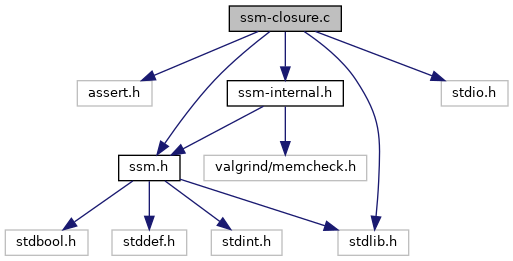
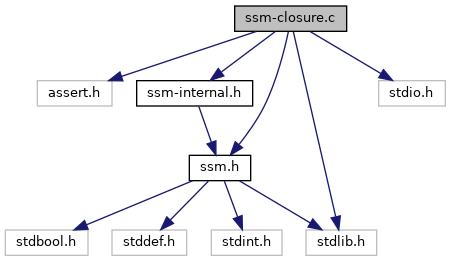
deploy: 63e72c5ca318d84e23f0a3bbaa121b332d3af9d6

Changed region(s): [[0.0, 0.0, 0.9933, 0.9808], [0.8071, 0.8582, 0.8381, 0.8889], [0.3725, 0.5211, 0.4035, 0.5517]]

diff --git a/ssm-mem_8c_source.html b/ssm-mem_8c_source.html
@@ -197,7 +197,7 @@ $(document).ready(function(){initNavTree('ssm-mem_8c_source.html',''); initResiz
 <div class="line"><a name="l00103"></a><span class="lineno">  103</span>&#160;  new_page[last_block].<a class="code" href="unionblock.html#ab75a6cd071ce51962a966b713463dd34">free_list_next</a> = pool-&gt;<a class="code" href="structmem__pool.html#a4a5b5fb16323ee065301f15bb85d0af8">free_list_head</a>;</div>
 <div class="line"><a name="l00104"></a><span class="lineno">  104</span>&#160;  pool-&gt;<a class="code" href="structmem__pool.html#a4a5b5fb16323ee065301f15bb85d0af8">free_list_head</a> = new_page;</div>
 <div class="line"><a name="l00105"></a><span class="lineno">  105</span>&#160; </div>
-<div class="line"><a name="l00106"></a><span class="lineno">  106</span>&#160;<span class="preprocessor">#ifndef NVALGRIND</span></div>
+<div class="line"><a name="l00106"></a><span class="lineno">  106</span>&#160;<span class="preprocessor">#ifdef USE_VALGRIND</span></div>
 <div class="line"><a name="l00107"></a><span class="lineno">  107</span>&#160;  <span class="comment">// Mark as NOACCESS; nothing should touch this memory until it is allocated.</span></div>
 <div class="line"><a name="l00108"></a><span class="lineno">  108</span>&#160;  VALGRIND_MAKE_MEM_NOACCESS(new_page, <a class="code" href="group__mem.html#gab5a6226f024f81622a5ce90dcd9b7388">SSM_MEM_PAGE_SIZE</a>);</div>
 <div class="line"><a name="l00109"></a><span class="lineno">  109</span>&#160; </div>
@@ -217,7 +217,7 @@ $(document).ready(function(){initNavTree('ssm-mem_8c_source.html',''); initResiz
 <div class="line"><a name="l00123"></a><span class="lineno">  123</span>&#160;    <a class="code" href="ssm-mem_8c.html#a02b28cd24b5aa39cb5824b984cd82987">mem_pools</a>[p].<a class="code" href="structmem__pool.html#a4a5b5fb16323ee065301f15bb85d0af8">free_list_head</a> = <a class="code" href="ssm-mem_8c.html#ad8d38e174ca767601ec126ef90cf89ab">END_OF_FREELIST</a>;</div>
 <div class="line"><a name="l00124"></a><span class="lineno">  124</span>&#160;  }</div>
 <div class="line"><a name="l00125"></a><span class="lineno">  125</span>&#160; </div>
-<div class="line"><a name="l00126"></a><span class="lineno">  126</span>&#160;<span class="preprocessor">#ifndef NVALGRIND</span></div>
+<div class="line"><a name="l00126"></a><span class="lineno">  126</span>&#160;<span class="preprocessor">#ifdef USE_VALGRIND</span></div>
 <div class="line"><a name="l00127"></a><span class="lineno">  127</span>&#160;  <span class="comment">// Ask Valgrind to checkpoint the amount of memory allocated so far.</span></div>
 <div class="line"><a name="l00128"></a><span class="lineno">  128</span>&#160;  VALGRIND_PRINTF(<span class="stringliteral">&quot;Performing leak check at memory initialization.\n&quot;</span>);</div>
 <div class="line"><a name="l00129"></a><span class="lineno">  129</span>&#160;  VALGRIND_PRINTF(<span class="stringliteral">&quot;(Checkpoints how much memory is allocated at init time.)\n&quot;</span>);</div>
@@ -233,7 +233,7 @@ $(document).ready(function(){initNavTree('ssm-mem_8c_source.html',''); initResiz
 <div class="line"><a name="l00139"></a><span class="lineno">  139</span>&#160;  <span class="comment">//   }</span></div>
 <div class="line"><a name="l00140"></a><span class="lineno">  140</span>&#160;  <span class="comment">// }</span></div>
 <div class="line"><a name="l00141"></a><span class="lineno">  141</span>&#160; </div>
-<div class="line"><a name="l00142"></a><span class="lineno">  142</span>&#160;<span class="preprocessor">#ifndef NVALGRIND</span></div>
+<div class="line"><a name="l00142"></a><span class="lineno">  142</span>&#160;<span class="preprocessor">#ifdef USE_VALGRIND</span></div>
 <div class="line"><a name="l00143"></a><span class="lineno">  143</span>&#160;  <span class="comment">// Report how much memory has been leaked since the checkpoint in</span></div>
 <div class="line"><a name="l00144"></a><span class="lineno">  144</span>&#160;  <span class="comment">// ssm_mem_init().</span></div>
 <div class="line"><a name="l00145"></a><span class="lineno">  145</span>&#160;  VALGRIND_PRINTF(<span class="stringliteral">&quot;About to destroy SSM allocator. Performing leak check.\n&quot;</span>);</div>
@@ -263,7 +263,7 @@ $(document).ready(function(){initNavTree('ssm-mem_8c_source.html',''); initResiz
 <div class="line"><a name="l00169"></a><span class="lineno">  169</span>&#160; </div>
 <div class="line"><a name="l00170"></a><span class="lineno">  170</span>&#160;  <span class="keywordtype">void</span> *m = pool-&gt;<a class="code" href="structmem__pool.html#a4a5b5fb16323ee065301f15bb85d0af8">free_list_head</a>-&gt;<a class="code" href="unionblock.html#af0d0a1eff43bd954f486b277f5ed1853">block_buf</a>;</div>
 <div class="line"><a name="l00171"></a><span class="lineno">  171</span>&#160; </div>
-<div class="line"><a name="l00172"></a><span class="lineno">  172</span>&#160;<span class="preprocessor">#ifndef NVALGRIND</span></div>
+<div class="line"><a name="l00172"></a><span class="lineno">  172</span>&#160;<span class="preprocessor">#ifdef USE_VALGRIND</span></div>
 <div class="line"><a name="l00173"></a><span class="lineno">  173</span>&#160;  <span class="comment">// Tell Valgrind that we have allocated m as a chunk of pool.</span></div>
 <div class="line"><a name="l00174"></a><span class="lineno">  174</span>&#160;  <span class="comment">//</span></div>
 <div class="line"><a name="l00175"></a><span class="lineno">  175</span>&#160;  <span class="comment">// The memory range [m..m+size] is now considered DEFINED.</span></div>
@@ -273,7 +273,7 @@ $(document).ready(function(){initNavTree('ssm-mem_8c_source.html',''); initResiz
 <div class="line"><a name="l00179"></a><span class="lineno">  179</span>&#160;  pool-&gt;<a class="code" href="structmem__pool.html#a4a5b5fb16323ee065301f15bb85d0af8">free_list_head</a> =</div>
 <div class="line"><a name="l00180"></a><span class="lineno">  180</span>&#160;      <a class="code" href="ssm-mem_8c.html#a8db65afdce406f6c3acd576a38f5451d">find_next_block</a>(pool-&gt;<a class="code" href="structmem__pool.html#a4a5b5fb16323ee065301f15bb85d0af8">free_list_head</a>, <a class="code" href="group__mem.html#ga9fe24b7e82f37df88331c2acef65ed2c">SSM_MEM_POOL_SIZE</a>(p));</div>
 <div class="line"><a name="l00181"></a><span class="lineno">  181</span>&#160; </div>
-<div class="line"><a name="l00182"></a><span class="lineno">  182</span>&#160;<span class="preprocessor">#ifndef NVALGRIND</span></div>
+<div class="line"><a name="l00182"></a><span class="lineno">  182</span>&#160;<span class="preprocessor">#ifdef USE_VALGRIND</span></div>
 <div class="line"><a name="l00183"></a><span class="lineno">  183</span>&#160;  <span class="comment">// Make the memory range [m..m+size] undefined, because the caller should</span></div>
 <div class="line"><a name="l00184"></a><span class="lineno">  184</span>&#160;  <span class="comment">// not rely on allocated chunks being defined.</span></div>
 <div class="line"><a name="l00185"></a><span class="lineno">  185</span>&#160;  VALGRIND_MAKE_MEM_UNDEFINED(m, size);</div>
@@ -295,7 +295,7 @@ $(document).ready(function(){initNavTree('ssm-mem_8c_source.html',''); initResiz
 <div class="line"><a name="l00201"></a><span class="lineno">  201</span>&#160;  new_head-&gt;<a class="code" href="unionblock.html#ab75a6cd071ce51962a966b713463dd34">free_list_next</a> = pool-&gt;<a class="code" href="structmem__pool.html#a4a5b5fb16323ee065301f15bb85d0af8">free_list_head</a>;</div>
 <div class="line"><a name="l00202"></a><span class="lineno">  202</span>&#160;  pool-&gt;<a class="code" href="structmem__pool.html#a4a5b5fb16323ee065301f15bb85d0af8">free_list_head</a> = new_head;</div>
 <div class="line"><a name="l00203"></a><span class="lineno">  203</span>&#160; </div>
-<div class="line"><a name="l00204"></a><span class="lineno">  204</span>&#160;<span class="preprocessor">#ifndef NVALGRIND</span></div>
+<div class="line"><a name="l00204"></a><span class="lineno">  204</span>&#160;<span class="preprocessor">#ifdef USE_VALGRIND</span></div>
 <div class="line"><a name="l00205"></a><span class="lineno">  205</span>&#160;  <span class="comment">// Tell Valgrind that we have freed m.</span></div>
 <div class="line"><a name="l00206"></a><span class="lineno">  206</span>&#160;  VALGRIND_FREELIKE_BLOCK(m, 0);</div>
 <div class="line"><a name="l00207"></a><span class="lineno">  207</span>&#160;<span class="preprocessor">#endif</span></div>

diff --git a/ssm-internal_8h_source.html b/ssm-internal_8h_source.html
@@ -253,8 +253,8 @@ $(document).ready(function(){initNavTree('ssm-internal_8h_source.html',''); init
 <div class="line"><a name="l00159"></a><span class="lineno">  159</span>&#160;<span class="comment"> *  alloc_mem_handler. These handlers may also assume they will not be invoked</span></div>
 <div class="line"><a name="l00160"></a><span class="lineno">  160</span>&#160;<span class="comment"> *  to request memory ranges of less than #SSM_MEM_POOL_MAX bytes.</span></div>
 <div class="line"><a name="l00161"></a><span class="lineno">  161</span>&#160;<span class="comment"> *</span></div>
-<div class="line"><a name="l00162"></a><span class="lineno">  162</span>&#160;<span class="comment"> *  If the allocator is compiled with valgrind support (i.e., without defining</span></div>
-<div class="line"><a name="l00163"></a><span class="lineno">  163</span>&#160;<span class="comment"> *  @a NVALGRIND), it will perform a leak-check summary, to checkpoint how much</span></div>
+<div class="line"><a name="l00162"></a><span class="lineno">  162</span>&#160;<span class="comment"> *  If the allocator is compiled with valgrind support (i.e., @a USE_VALGRIND is</span></div>
+<div class="line"><a name="l00163"></a><span class="lineno">  163</span>&#160;<span class="comment"> *  defined), it will perform a leak-check summary, to checkpoint how much</span></div>
 <div class="line"><a name="l00164"></a><span class="lineno">  164</span>&#160;<span class="comment"> *  memory has already been allocated.</span></div>
 <div class="line"><a name="l00165"></a><span class="lineno">  165</span>&#160;<span class="comment"> *</span></div>
 <div class="line"><a name="l00166"></a><span class="lineno">  166</span>&#160;<span class="comment"> *  @platformonly</span></div>
@@ -269,8 +269,8 @@ $(document).ready(function(){initNavTree('ssm-internal_8h_source.html',''); init
 <div class="line"><a name="l00175"></a><span class="lineno">  175</span>&#160;<span class="comment"></span> </div>
 <div class="line"><a name="l00176"></a><span class="lineno">  176</span>&#160;<span class="comment">/** @brief Tears down the underlying allocator system.</span></div>
 <div class="line"><a name="l00177"></a><span class="lineno">  177</span>&#160;<span class="comment"> *</span></div>
-<div class="line"><a name="l00178"></a><span class="lineno">  178</span>&#160;<span class="comment"> *  If the allocator is compiled with valgrind support (i.e., without defining</span></div>
-<div class="line"><a name="l00179"></a><span class="lineno">  179</span>&#160;<span class="comment"> *  @a NVALGRIND), it will perform a full leak-check summary, to report how much</span></div>
+<div class="line"><a name="l00178"></a><span class="lineno">  178</span>&#160;<span class="comment"> *  If the allocator is compiled with valgrind support (i.e., @a USE_VALGRIND is</span></div>
+<div class="line"><a name="l00179"></a><span class="lineno">  179</span>&#160;<span class="comment"> *  defined), it will perform a full leak-check summary, to report how much</span></div>
 <div class="line"><a name="l00180"></a><span class="lineno">  180</span>&#160;<span class="comment"> *  memory has been leaked since ssm_mem_init().</span></div>
 <div class="line"><a name="l00181"></a><span class="lineno">  181</span>&#160;<span class="comment"> *</span></div>
 <div class="line"><a name="l00182"></a><span class="lineno">  182</span>&#160;<span class="comment"> *  @TODO this doesn&#39;t actually call @a free_page_handler yet. It still needs to</span></div>
@@ -351,7 +351,7 @@ $(document).ready(function(){initNavTree('ssm-internal_8h_source.html',''); init
 <div class="line"><a name="l00257"></a><span class="lineno">  257</span>&#160;<span class="comment"></span> </div>
 <div class="line"><a name="l00258"></a><span class="lineno">  258</span>&#160;<span class="comment">/** @} */</span></div>
 <div class="line"><a name="l00259"></a><span class="lineno">  259</span>&#160; </div>
-<div class="line"><a name="l00260"></a><span class="lineno">  260</span>&#160;<span class="preprocessor">#ifndef NVALGRIND</span></div>
+<div class="line"><a name="l00260"></a><span class="lineno">  260</span>&#160;<span class="preprocessor">#ifdef USE_VALGRIND</span></div>
 <div class="line"><a name="l00261"></a><span class="lineno">  261</span>&#160;<span class="preprocessor">#include &lt;valgrind/memcheck.h&gt;</span></div>
 <div class="line"><a name="l00262"></a><span class="lineno">  262</span>&#160;<span class="preprocessor">#endif</span></div>
 <div class="line"><a name="l00263"></a><span class="lineno">  263</span>&#160; </div>

diff --git a/group__mem.html b/group__mem.html
@@ -672,7 +672,7 @@ Functions</h2></td></tr>
 <p>Initializes the underlying allocator system. </p>
 <p>Memory pages are requested from the platform/OS on-demand via the provided <em>alloc_page_handler</em>. This handler must return a pointer to the beginning of a range of memory of size <a class="el" href="group__mem.html#gab5a6226f024f81622a5ce90dcd9b7388" title="The size of a memory page; must be greater than SSM_MEM_POOL_MAX.">SSM_MEM_PAGE_SIZE</a>, and the page <em>must</em> be zeroed out. These pages are assumed to never be freed.</p>
 <p>To support arbitrarily large allocations, SSM's allocator uses <em>alloc_mem_handler</em> to allocate memory, and <em>free_mem_handler</em> to release it. There are no requirements on the contents of memory allocated with <em>alloc_mem_handler</em>. These handlers may also assume they will not be invoked to request memory ranges of less than <a class="el" href="group__mem.html#gafd44b83b7d4fb58e0fccd2380a540a52" title="The size of the largest memory pool.">SSM_MEM_POOL_MAX</a> bytes.</p>
-<p>If the allocator is compiled with valgrind support (i.e., without defining <em>NVALGRIND</em>), it will perform a leak-check summary, to checkpoint how much memory has already been allocated.</p>
+<p>If the allocator is compiled with valgrind support (i.e., <em>USE_VALGRIND</em> is defined), it will perform a leak-check summary, to checkpoint how much memory has already been allocated.</p>
 <dl class="section note"><dt>Note</dt><dd>Intended for platform code; should not be used in user code.</dd></dl>
 <dl class="params"><dt>Parameters</dt><dd>
   <table class="params">
@@ -704,7 +704,7 @@ Functions</h2></td></tr>
 </div><div class="memdoc">
 
 <p>Tears down the underlying allocator system. </p>
-<p>If the allocator is compiled with valgrind support (i.e., without defining <em>NVALGRIND</em>), it will perform a full leak-check summary, to report how much memory has been leaked since <a class="el" href="group__mem.html#gafe56b79f41cfe1522669c35cbc423231" title="Initializes the underlying allocator system.">ssm_mem_init()</a>.</p>
+<p>If the allocator is compiled with valgrind support (i.e., <em>USE_VALGRIND</em> is defined), it will perform a full leak-check summary, to report how much memory has been leaked since <a class="el" href="group__mem.html#gafe56b79f41cfe1522669c35cbc423231" title="Initializes the underlying allocator system.">ssm_mem_init()</a>.</p>
 <dl class="todo"><dt><b><a class="el" href="todo.html#_todo000002">Todo:</a></b></dt><dd>this doesn't actually call <em>free_page_handler</em> yet. It still needs to be implemented, perhaps with the help of a superblock header to keep track of all pages allocated for each mempool</dd></dl>
 <dl class="section note"><dt>Note</dt><dd>Intended for platform code; should not be used in user code.</dd></dl>
 <dl class="params"><dt>Parameters</dt><dd>

diff --git a/ssm-closure_8c.html b/ssm-closure_8c.html
@@ -109,13 +109,12 @@ $(document).ready(function(){initNavTree('ssm-closure_8c.html',''); initResizabl
 <div id="dynsection-0-content" class="dyncontent" style="display:none;">
 <div class="center"><img src="ssm-closure_8c__incl.png" border="0" usemap="#ssm-closure_8c" alt=""/></div>
 <map name="ssm-closure_8c" id="ssm-closure_8c">
-<area shape="rect" title="SSM closure management and allocation." alt="" coords="229,5,341,32"/>
-<area shape="rect" title=" " alt="" coords="77,80,152,107"/>
-<area shape="rect" href="ssm-internal_8h.html" title="The internal interface of the SSM runtime." alt="" coords="227,80,343,107"/>
-<area shape="rect" href="ssm_8h.html" title="Interface to the SSM runtime." alt="" coords="119,155,180,181"/>
-<area shape="rect" title=" " alt="" coords="338,229,409,256"/>
-<area shape="rect" title=" " alt="" coords="441,80,508,107"/>
-<area shape="rect" title=" " alt="" coords="204,155,367,181"/>
+<area shape="rect" title="SSM closure management and allocation." alt="" coords="235,5,347,32"/>
+<area shape="rect" title=" " alt="" coords="37,80,112,107"/>
+<area shape="rect" href="ssm-internal_8h.html" title="The internal interface of the SSM runtime." alt="" coords="137,80,253,107"/>
+<area shape="rect" href="ssm_8h.html" title="Interface to the SSM runtime." alt="" coords="189,155,251,181"/>
+<area shape="rect" title=" " alt="" coords="306,229,377,256"/>
+<area shape="rect" title=" " alt="" coords="379,80,445,107"/>
 <area shape="rect" title=" " alt="" coords="5,229,88,256"/>
 <area shape="rect" title=" " alt="" coords="112,229,187,256"/>
 <area shape="rect" title=" " alt="" coords="211,229,282,256"/>

diff --git a/ssm-mem_8c.html b/ssm-mem_8c.html
@@ -113,13 +113,12 @@ $(document).ready(function(){initNavTree('ssm-mem_8c.html',''); initResizable();
 <div id="dynsection-0-content" class="dyncontent" style="display:none;">
 <div class="center"><img src="ssm-mem_8c__incl.png" border="0" usemap="#ssm-mem_8c" alt=""/></div>
 <map name="ssm-mem_8c" id="ssm-mem_8c">
-<area shape="rect" title="SSM runtime memory management and allocation." alt="" coords="236,5,335,32"/>
-<area shape="rect" title=" " alt="" coords="77,80,152,107"/>
-<area shape="rect" href="ssm-internal_8h.html" title="The internal interface of the SSM runtime." alt="" coords="227,80,343,107"/>
-<area shape="rect" href="ssm_8h.html" title="Interface to the SSM runtime." alt="" coords="119,155,180,181"/>
-<area shape="rect" title=" " alt="" coords="338,229,409,256"/>
-<area shape="rect" title=" " alt="" coords="441,80,508,107"/>
-<area shape="rect" title=" " alt="" coords="204,155,367,181"/>
+<area shape="rect" title="SSM runtime memory management and allocation." alt="" coords="241,5,340,32"/>
+<area shape="rect" title=" " alt="" coords="37,80,112,107"/>
+<area shape="rect" href="ssm-internal_8h.html" title="The internal interface of the SSM runtime." alt="" coords="137,80,253,107"/>
+<area shape="rect" href="ssm_8h.html" title="Interface to the SSM runtime." alt="" coords="189,155,251,181"/>
+<area shape="rect" title=" " alt="" coords="306,229,377,256"/>
+<area shape="rect" title=" " alt="" coords="379,80,445,107"/>
 <area shape="rect" title=" " alt="" coords="5,229,88,256"/>
 <area shape="rect" title=" " alt="" coords="112,229,187,256"/>
 <area shape="rect" title=" " alt="" coords="211,229,282,256"/>

diff --git a/ssm-internal_8h.html b/ssm-internal_8h.html
@@ -100,7 +100,6 @@ $(document).ready(function(){initNavTree('ssm-internal_8h.html',''); initResizab
 <p>The internal interface of the SSM runtime.  
 <a href="#details">More...</a></p>
 <div class="textblock"><code>#include &lt;<a class="el" href="ssm_8h_source.html">ssm.h</a>&gt;</code><br />
-<code>#include &lt;valgrind/memcheck.h&gt;</code><br />
 </div><div class="textblock"><div id="dynsection-0" onclick="return toggleVisibility(this)" class="dynheader closed" style="cursor:pointer;">
   <img id="dynsection-0-trigger" src="closed.png" alt="+"/> Include dependency graph for ssm-internal.h:</div>
 <div id="dynsection-0-summary" class="dynsummary" style="display:block;">
@@ -108,9 +107,8 @@ $(document).ready(function(){initNavTree('ssm-internal_8h.html',''); initResizab
 <div id="dynsection-0-content" class="dyncontent" style="display:none;">
 <div class="center"><img src="ssm-internal_8h__incl.png" border="0" usemap="#ssm-internal_8h" alt=""/></div>
 <map name="ssm-internal_8h" id="ssm-internal_8h">
-<area shape="rect" title="The internal interface of the SSM runtime." alt="" coords="207,5,323,32"/>
+<area shape="rect" title="The internal interface of the SSM runtime." alt="" coords="139,5,255,32"/>
 <area shape="rect" href="ssm_8h.html" title="Interface to the SSM runtime." alt="" coords="167,80,228,107"/>
-<area shape="rect" title=" " alt="" coords="252,80,415,107"/>
 <area shape="rect" title=" " alt="" coords="5,155,88,181"/>
 <area shape="rect" title=" " alt="" coords="112,155,187,181"/>
 <area shape="rect" title=" " alt="" coords="211,155,282,181"/>

diff --git a/ssm-scheduler_8c.html b/ssm-scheduler_8c.html
@@ -108,10 +108,9 @@ $(document).ready(function(){initNavTree('ssm-scheduler_8c.html',''); initResiza
 <div id="dynsection-0-content" class="dyncontent" style="display:none;">
 <div class="center"><img src="ssm-scheduler_8c__incl.png" border="0" usemap="#ssm-scheduler_8c" alt=""/></div>
 <map name="ssm-scheduler_8c" id="ssm-scheduler_8c">
-<area shape="rect" title="Implementation of the SSM runtime scheduler." alt="" coords="202,5,329,32"/>
-<area shape="rect" href="ssm-internal_8h.html" title="The internal interface of the SSM runtime." alt="" coords="207,80,323,107"/>
+<area shape="rect" title="Implementation of the SSM runtime scheduler." alt="" coords="134,5,261,32"/>
+<area shape="rect" href="ssm-internal_8h.html" title="The internal interface of the SSM runtime." alt="" coords="139,80,255,107"/>
 <area shape="rect" href="ssm_8h.html" title="Interface to the SSM runtime." alt="" coords="167,155,228,181"/>
-<area shape="rect" title=" " alt="" coords="252,155,415,181"/>
 <area shape="rect" title=" " alt="" coords="5,229,88,256"/>
 <area shape="rect" title=" " alt="" coords="112,229,187,256"/>
 <area shape="rect" title=" " alt="" coords="211,229,282,256"/>
